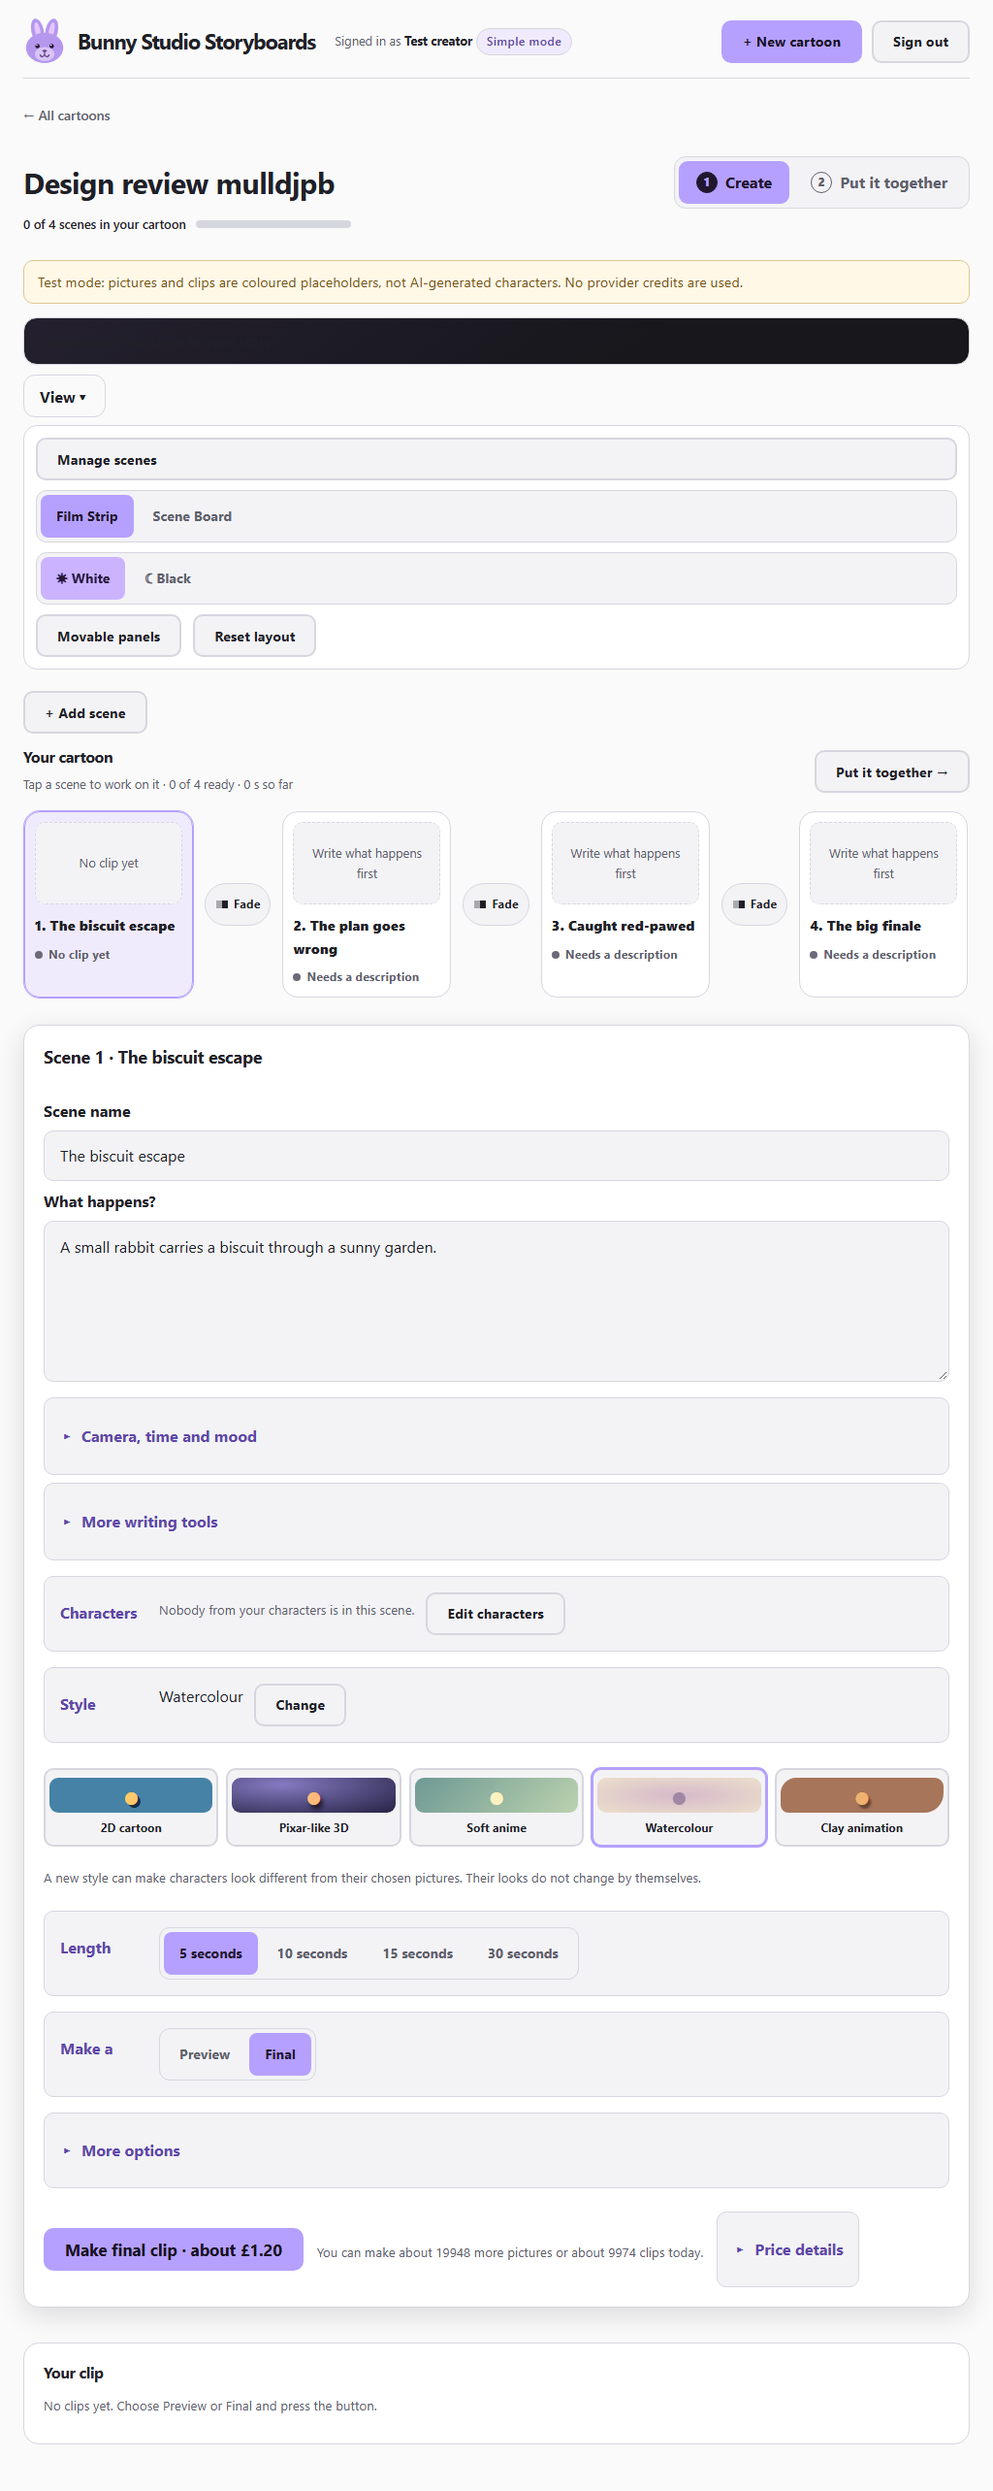
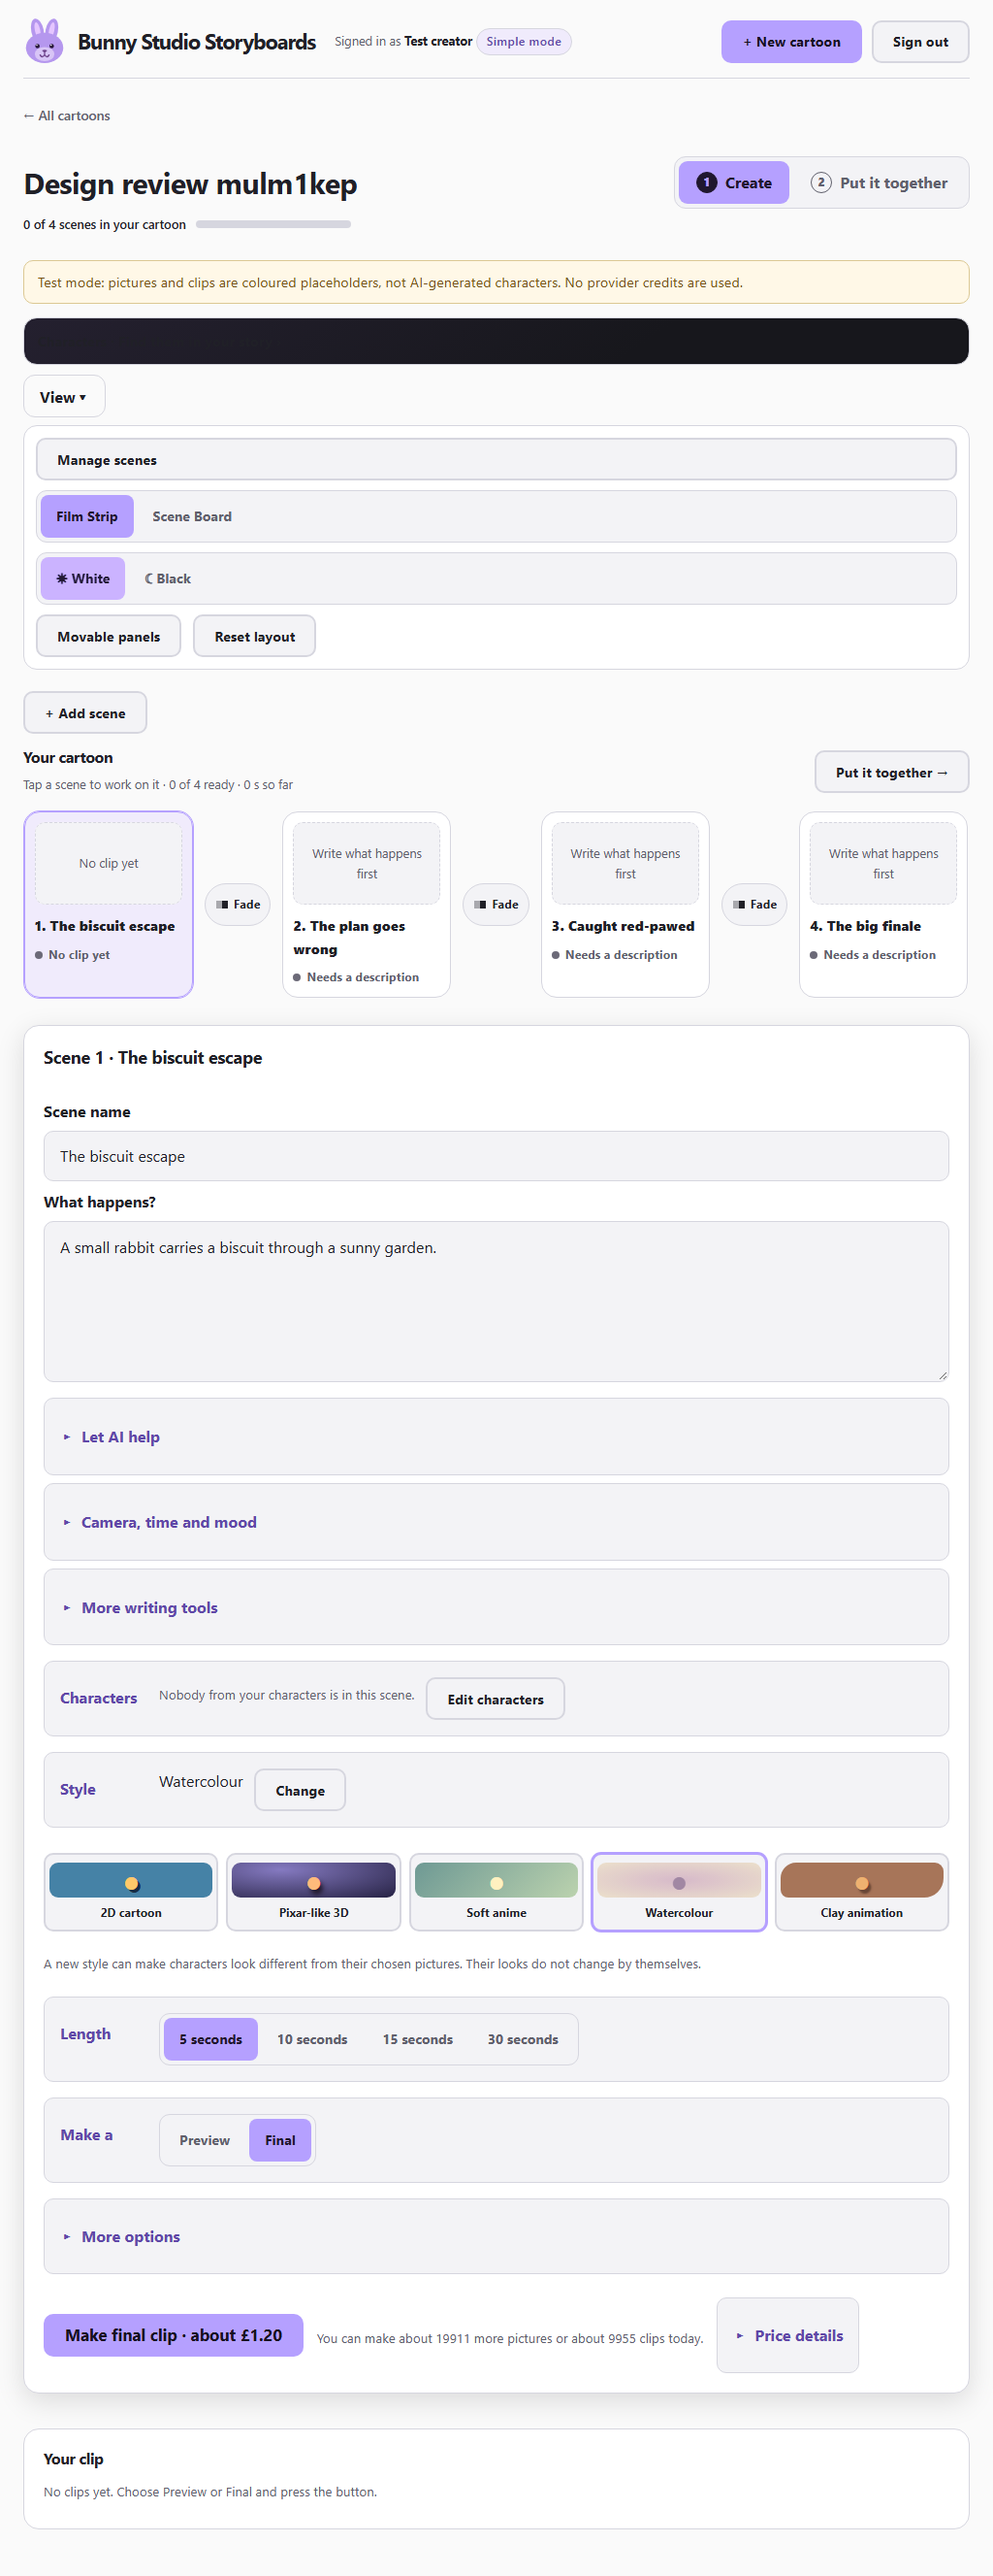
feat(web): 'Let AI help' writing help in the Create scene editor
The Improve for me writing help was only on the old full scene page. It now sits under What happens? in Create. Asking for help first saves the words and stops if saving failed (useSceneText.settle), so AI never improves an older version; a suggestion only replaces the words when Use this description is chosen, then the scene and its clip instructions reload. Browser test fakes only the AI replies. Tests: browser 24 pass (walkthrough skipped).

diff --git a/apps/web/e2e/scene-composer.spec.ts b/apps/web/e2e/scene-composer.spec.ts
@@ -106,3 +106,42 @@ test('typing while a new scene is being added never overwrites the previous scen
   await expect(page.getByLabel('What happens?')).toHaveValue('The first scene must keep these words.');
   await expect(page.getByLabel('Scene name', { exact: true })).toHaveValue('Keep me');
 });
+
+test('Let AI help improves the scene in Create; nothing changes until the suggestion is chosen', async ({ page }) => {
+  test.skip(!process.env.E2E_FAKE_GENERATION, 'requires fake generation');
+  await workspace(page);
+  const suggestion = 'A small white rabbit tiptoes through moonlit grass, ears twitching, toward a sleeping farmer.';
+  let askedWith = '';
+  // Only the AI replies are faked (tests never call Claude); saving the scene is real.
+  await page.route('**/api/v1/settings/ai', (route) => route.fulfill({ json: { thumbnails_enabled: false, improve_enabled: true, daily_limit: 30, message: null } }));
+  await page.route('**/api/v1/scenes/*/description-proposals**', async (route) => {
+    const request = route.request();
+    const url = request.url();
+    if (request.method() === 'GET' && /description-proposals$/.test(url)) return route.fulfill({ json: { proposal: null } });
+    if (request.method() === 'POST' && /description-proposals$/.test(url)) {
+      const sceneId = url.split('/scenes/')[1]!.split('/')[0]!;
+      askedWith = (await (await page.request.get(`/api/v1/scenes/${sceneId}`, { headers: { authorization: `Bearer ${await page.evaluate(() => localStorage.getItem('storyboard.token'))}` } })).json()).description;
+      return route.fulfill({ json: { id: 'p1', status: 'ready', preview: null, error: null, text: suggestion } });
+    }
+    if (request.method() === 'POST' && url.endsWith('/accept')) {
+      // Stand in for the server applying the accepted text to the scene.
+      const sceneId = url.split('/scenes/')[1]!.split('/')[0]!;
+      const auth = { authorization: `Bearer ${await page.evaluate(() => localStorage.getItem('storyboard.token'))}` };
+      const scene = await (await page.request.get(`/api/v1/scenes/${sceneId}`, { headers: auth })).json();
+      await page.request.patch(`/api/v1/scenes/${sceneId}`, { headers: { ...auth, 'if-match': String(scene.version) }, data: { description: suggestion } });
+      return route.fulfill({ json: { status: 'accepted' } });
+    }
+    return route.fulfill({ json: { status: 'cancelled' } });
+  });
+  await page.reload();
+  await page.getByLabel('What happens?').fill('Bunny sneaks past the farmer.');
+  await page.getByText('Let AI help', { exact: true }).click();
+  await page.getByRole('button', { name: 'Improve for me' }).click();
+  await expect(page.getByText(suggestion)).toBeVisible();
+  expect(askedWith, 'the words were saved before asking for help').toBe('Bunny sneaks past the farmer.');
+  await expect(page.getByLabel('What happens?')).toHaveValue('Bunny sneaks past the farmer.');
+  await page.getByRole('button', { name: 'Use this description' }).click();
+  await expect(page.getByLabel('What happens?')).toHaveValue(suggestion);
+  await page.reload();
+  await expect(page.getByLabel('What happens?')).toHaveValue(suggestion);
+});

diff --git a/apps/web/src/components/SceneComposer.tsx b/apps/web/src/components/SceneComposer.tsx
@@ -15,6 +15,7 @@ import { DirectorPanel } from './DirectorPanel';
 import { VideoModelPicker } from './VideoModelPicker';
 import { useSceneText } from '../useSceneText';
 import { OptionPicker } from './OptionPicker';
+import { SceneImprover } from './SceneImprover';
 
 const CLIP_STYLES = [
   ['2d_flat_vector', '2D cartoon'], ['3d_pixar_style', 'Pixar-like 3D'],
@@ -297,6 +298,22 @@ export function SceneComposer(props: Props) {
               <button type="button" className="secondary" onClick={() => void sceneText.retry()}>{sceneText.conflict ? 'Save my changes' : 'Retry save'}</button>
               {sceneText.conflict && <button type="button" className="secondary" onClick={() => void sceneText.retry(false)}>Use saved version</button>}
             </div>}
+            <details className="scene-settings let-ai-help">
+              <summary>Let AI help</summary>
+              <div className="scene-settings-body">
+                {/* The words are saved first, and a suggestion only replaces them when chosen. */}
+                <SceneImprover scene={{ ...scene, description: sceneText.text.description }} beforeGenerate={sceneText.settle}
+                  mutate={async (action) => {
+                    await sceneText.settle();
+                    await action(scene);
+                    const fresh = await api.getScene(scene.id);
+                    onScene(fresh);
+                    const next = (await director.shots(fresh.id)).data[0];
+                    if (next) onShot(next);
+                    setQuoteRevision((n) => n + 1);
+                  }} />
+              </div>
+            </details>
             <details className="scene-settings">
               <summary>Camera, time and mood</summary>
               <div className="stack scene-settings-body">
@@ -318,7 +335,7 @@ export function SceneComposer(props: Props) {
                 </div>
               </div>
             </details>
-            <details className="scene-settings"><summary>More writing tools</summary><div className="scene-settings-body"><p className="hint">Open the full scene editor for writing help and scene sketches.</p><Link className="btn secondary" to={sceneLink(projectId, scene.id, 'make')}>Edit scene</Link></div></details>
+            <details className="scene-settings"><summary>More writing tools</summary><div className="scene-settings-body"><p className="hint">Open the full scene editor for scene sketches.</p><Link className="btn secondary" to={sceneLink(projectId, scene.id, 'make')}>Edit scene</Link></div></details>
           </div>
 
           {/* Characters: their chosen looks are used automatically (review P1). */}

diff --git a/apps/web/src/useSceneText.ts b/apps/web/src/useSceneText.ts
@@ -104,6 +104,13 @@ export function useSceneText(scene: Scene, onSaved: (scene: Scene) => Promise<vo
       await flush();
     } catch (err) { setError(err); }
   }
-  return { text, edit, flush, retry, conflict, error, pending: dirty || working || Boolean(error),
+  /** Save now, and refuse to continue unless the words on screen are the saved words. */
+  async function settle() {
+    await flush();
+    if (halted.current || !same(live.current, committed.current)) {
+      throw new ApiProblem({ status: 409, type: 'about:blank', title: 'Save your scene first', detail: 'Your words are not saved yet. Fix the save problem above, then try again. Your text is still here.' });
+    }
+  }
+  return { text, edit, flush, settle, retry, conflict, error, pending: dirty || working || Boolean(error),
     status: error ? 'Not saved — your text is kept here.' : !text.title.trim() ? 'Give this scene a name.' : dirty || working ? 'Saving…' : saved ? 'Saved' : '' };
 }
